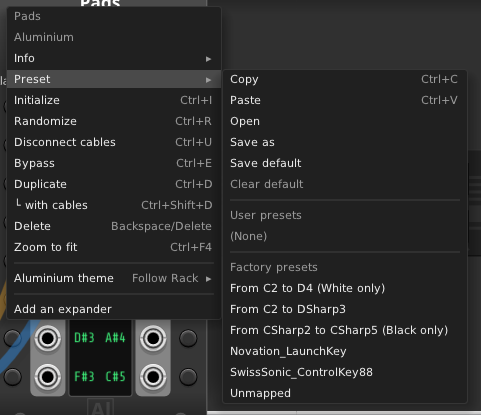
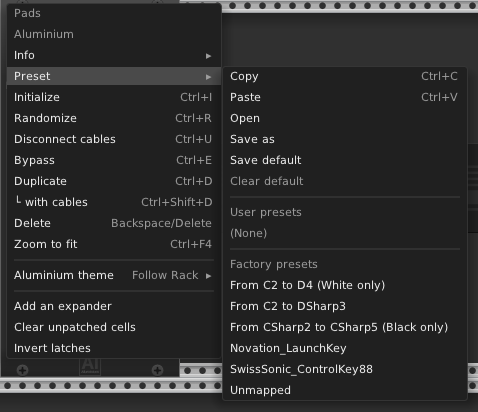
Add "Invert latches" context menu action to Pads
Flips every cell's Latch button in one click instead of clicking all
16 by hand, for quickly swapping an entire layout's momentary/toggle
behavior.

diff --git a/src/Pads.cpp b/src/Pads.cpp
@@ -599,6 +599,17 @@ struct PadsWidget : ModuleWidget {
         }
     }
 
+    // Flips every cell's LATCH_PARAMS switch (Normal <-> Latch), letting a
+    // whole layout be swapped in one click instead of clicking all 16
+    // Latch buttons by hand.
+    void invertLatches() {
+        Pads* pads = static_cast<Pads*>(module);
+        for (int id = 0; id < 16; id++) {
+            bool latchOn = pads->params[Pads::LATCH_PARAMS + id].getValue() > 0.5f;
+            pads->params[Pads::LATCH_PARAMS + id].setValue(latchOn ? 0.f : 1.f);
+        }
+    }
+
     void appendContextMenu(Menu* menu) override {
         appendAluminiumThemeMenu(menu);
 
@@ -607,6 +618,8 @@ struct PadsWidget : ModuleWidget {
             [this]() { addPadXModel(modelPadX); }));
         menu->addChild(createMenuItem("Clear unpatched cells", "",
             [this]() { clearUnpatchedCells(); }));
+        menu->addChild(createMenuItem("Invert latches", "",
+            [this]() { invertLatches(); }));
     }
 };
 #else

diff --git a/README.md b/README.md
@@ -142,6 +142,7 @@ Right-click → **Preset** → **Factory presets** offers ready-made note mappin
 
 - **Add an expander** — creates a PadX immediately to the right of Pads, or to the right of the last expander already chained there if one or more are already attached. Add as many as you need, one per poly lane, in any order — give each one its own name via its on-panel label field, see [PadX](#padx) below for how the chain works.
 - **Clear unpatched cells** — sets every cell back to "--" whose Gate output has no cable plugged in, in one step. Leaves patched cells alone, so it's a quick way to drop leftover cells from a factory preset or an earlier setup that this patch never actually uses, without hand-clearing each one (click, Backspace).
+- **Invert latches** — flips every cell's Latch button in one step: cells that were in Latch mode go back to Normal, and vice versa. A quick way to swap an entire layout's momentary/toggle behavior without clicking all 16 Latch buttons by hand.
 
 **Patch ideas**
 - Patch a MIDI pad controller's Core MIDI-CV output into Pads, learn each pad once, then add a [PadX](#padx) per lane you want — one labeled "Velocity", one labeled "Aftertouch" — so gate triggers a drum module, velocity sets its level, and aftertouch modulates a filter, all live and independently per pad.
